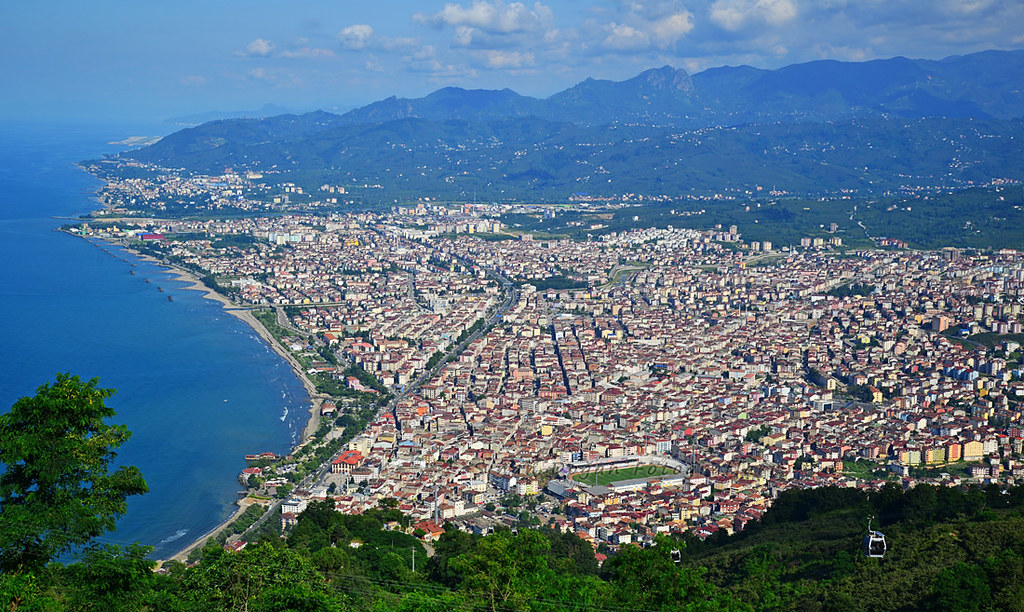
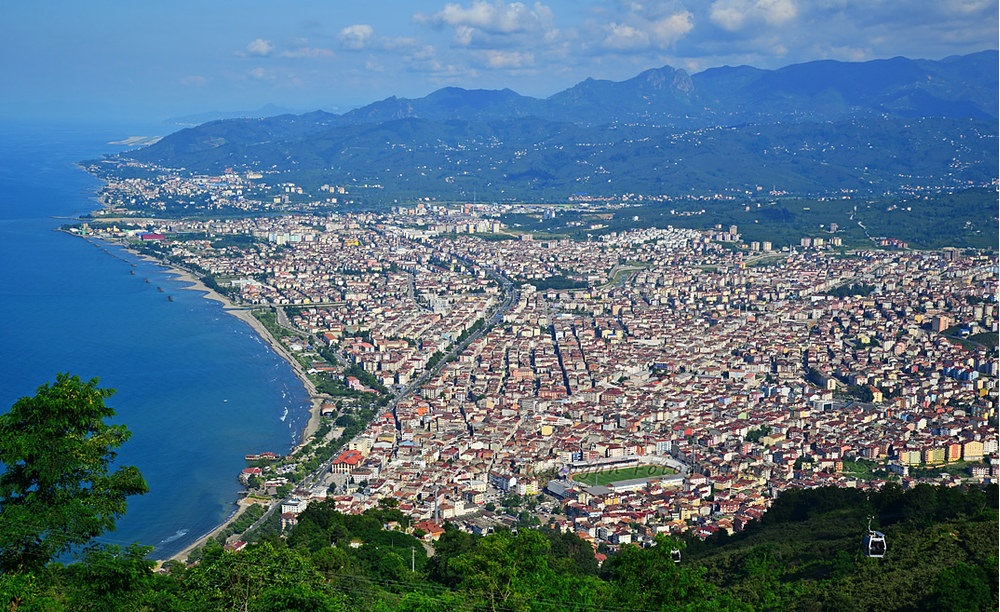
gezilecek yerler sayfasını düzenledim.

diff --git a/ödev/taşbaşıkilise.html b/ödev/taşbaşıkilise.html
@@ -5,75 +5,16 @@
     <meta name="viewport" content="width=device-width, initial-scale=1.0">
     <title>Document</title>
     <link rel="stylesheet" href="https://cdn.jsdelivr.net/npm/bootstrap@4.6.2/dist/css/bootstrap.min.css" integrity="sha384-xOolHFLEh07PJGoPkLv1IbcEPTNtaed2xpHsD9ESMhqIYd0nLMwNLD69Npy4HI+N" crossorigin="anonymous">
-<style>
-    body {
-        background-image: url("/ödev/IMAGES/background2.jpeg");
-        background-size:cover;
-        background-repeat: no-repeat;
-        
-          }
-</style>
+    <style>
+        body {
+      background-image: url("/ödev/IMAGES/bird-s-eye-view-shore-break.jpg");
+      background-size:cover;
+      background-repeat: no-repeat;
+        }
+      </style>
+
 </head>
 <body>
-    
-   <center> <div id="carouselExampleIndicators" class="carousel slide" data-ride="carousel" style="width: 1000px;height:1000px;">
-        <ol class="carousel-indicators">
-          <li data-target="#carouselExampleIndicators" data-slide-to="0" class="active"></li>
-          <li data-target="#carouselExampleIndicators" data-slide-to="1"></li>
-          <li data-target="#carouselExampleIndicators" data-slide-to="2"></li>
-          <li data-target="#carouselExampleIndicators" data-slide-to="3"></li>
-          <li data-target="#carouselExampleIndicators" data-slide-to="4"></li>
-          <li data-target="#carouselExampleIndicators" data-slide-to="5"></li>
-          <li data-target="#carouselExampleIndicators" data-slide-to="6"></li>
-          <li data-target="#carouselExampleIndicators" data-slide-to="7"></li>
-          <li data-target="#carouselExampleIndicators" data-slide-to="8"></li>
-        </ol>
-
-        
-        <div class="carousel-inner">
-          <div class="carousel-item active">
-            <a href="/ödev/boztepe.html">
-            <img class="d-block w-100" src="/ödev/IMAGES/botepe.jpg" alt="First slide">
-            </a>
-          </div>
-        
-        
-          <div class="carousel-item">
-            <a href="/ödev/taşbaşıkilise.html">
-            <img class="d-block w-100" src="/ödev/IMAGES/taşbaşıkilisesi.jpg" alt="Second slide">
-            </a>
-          </div>
-          
-          <div class="carousel-item">
-            <img class="d-block w-100" src="/ödev/IMAGES/yason.png" alt="Third slide">
-          </div>
-          <div class="carousel-item">
-            <img class="d-block w-100" src="/ödev/IMAGES/yoroz.jpg" alt="Fourth slide">
-          </div>
-          <div class="carousel-item">
-            <img class="d-block w-100" src="/ödev/IMAGES/perşembe yaylası.jpg" alt="Fifth slide">
-          </div>
-          <div class="carousel-item">
-            <img class="d-block w-100" src="/ödev/IMAGES/çambaşıkayakmerkezi.jpg" alt="Sixth slide">
-          </div>
-          <div class="carousel-item">
-            <img class="d-block w-100" src="/ödev/IMAGES/kurul kalesi.jpg" alt="Seventh slide">
-          </div>
-          <div class="carousel-item">
-            <img class="d-block w-100" src="/ödev/IMAGES/çiselişelalesi.png" alt="Eighth slide">
-          </div>
-          
-        </div>
-        <a class="carousel-control-prev" href="#carouselExampleIndicators" role="button" data-slide="prev">
-          <span class="carousel-control-prev-icon" aria-hidden="true"></span>
-          <span class="sr-only">Previous</span>
-        </a>
-        <a class="carousel-control-next" href="#carouselExampleIndicators" role="button" data-slide="next">
-          <span class="carousel-control-next-icon" aria-hidden="true"></span>
-          <span class="sr-only">Next</span>
-        </a>
-      </div> </center>
-
     <div class="container-fluid">
         <nav class="navbar fixed-top navbar-expand-lg navbar-dark bg-dark">
           <a class="navbar-brand" href="#">
@@ -127,20 +68,25 @@
               
             </div>
           </nav>
-          
 
-    
-          <script>
-            
-            function slideTo(slideIndex) {
-                $('#carouselExampleIndicators').carousel(slideIndex); 
-            }
-        </script>
-        <a href="/ödev/boztepe.html" onclick="slideTo(0)">Slayt 1</a>
-        <a href="#" onclick="slideTo(1)">Slayt 2</a>
-        <a href="#" onclick="slideTo(2)">Slayt 3</a>
-        <!-- Ve diğer slaytlar için aynı şekilde devam edebilirsiniz -->
-        
+          <br><br><br><br><br>
+          <center>
+            <div class="card" style=" background-color:  rgba(0, 0, 0, 0.7);">
+              <div class="card-body">
+                <h2 class="card-title" style="color:whitesmoke;">TAŞBAŞI KİLİSESİ</h2>
+              <div style="color:whitesmoke;"> Kilise doğu-batı istikametinde, dikdörtgen tarzında yapılmıştır. Doğuda büyük bir apsis, yanlarda iki küçük apsis bulunmaktadır. Kilisenin ana mekanı iki sıralı üç sütunla üç nefe ayrılmıştır. Kilisenin semardam çatısı, sütunlarla desteklenen kemerlerle taşınmaktadır. Tamamı kesme taştan yapılmış, (kubbe hariç) günümüze kadar ayakta kalabilen, bir bazilika şeklinde yapıdır. 1853 yılında yörede yaşayan Ortodoks Hıristiyanlar rumlar tarafından yapılmıştır. 10 Nisan 2000 tarihinden bu yana Kültür Merkezi (çok amaçlı salon) olarak kullanılmaktadır.Kilise doğu-batı istikametinde, dikdörtgen tarzında yapılmıştır. Doğuda büyük bir apsis, yanlarda iki küçük apsis bulunmaktadır. Kilisenin ana mekanı iki sıralı üç sütunla üç nefe ayrılmıştır. Kilisenin semardam çatısı, sütunlarla desteklenen kemerlerle taşınmaktadır. Tamamı kesme taştan yapılmış, (kubbe hariç) günümüze kadar ayakta kalabilen, bir bazilika şeklinde yapıdır. 1853 yılında yörede yaşayan Ortodoks Hıristiyanlar rumlar tarafından yapılmıştır. 10 Nisan 2000 tarihinden bu yana Kültür Merkezi (çok amaçlı salon) olarak kullanılmaktadır.</div>
+                <br><br><br>
+              
+              <img src="/ödev/IMAGES/TAŞBAŞI1.png">
+              <br><br><br>
+                <img src="/ödev/IMAGES/TAŞBAŞI2.png">
+                <br><br><br>
+                <img src="/ödev/IMAGES/TAŞBAŞI3.png">
+                <br><br><br>
+               
+              </div>
+            </div>
+          </center>
     <script src="https://cdn.jsdelivr.net/npm/jquery@3.5.1/dist/jquery.slim.min.js" integrity="sha384-DfXdz2htPH0lsSSs5nCTpuj/zy4C+OGpamoFVy38MVBnE+IbbVYUew+OrCXaRkfj" crossorigin="anonymous"></script>
     <script src="https://cdn.jsdelivr.net/npm/popper.js@1.16.1/dist/umd/popper.min.js" integrity="sha384-9/reFTGAW83EW2RDu2S0VKaIzap3H66lZH81PoYlFhbGU+6BZp6G7niu735Sk7lN" crossorigin="anonymous"></script>
     <script src="https://cdn.jsdelivr.net/npm/bootstrap@4.6.2/dist/js/bootstrap.min.js" integrity="sha384-+sLIOodYLS7CIrQpBjl+C7nPvqq+FbNUBDunl/OZv93DB7Ln/533i8e/mZXLi/P+" crossorigin="anonymous"></script>

diff --git a/ödev/boztepe.html b/ödev/boztepe.html
@@ -5,74 +5,17 @@
     <meta name="viewport" content="width=device-width, initial-scale=1.0">
     <title>Document</title>
     <link rel="stylesheet" href="https://cdn.jsdelivr.net/npm/bootstrap@4.6.2/dist/css/bootstrap.min.css" integrity="sha384-xOolHFLEh07PJGoPkLv1IbcEPTNtaed2xpHsD9ESMhqIYd0nLMwNLD69Npy4HI+N" crossorigin="anonymous">
-<style>
-    body {
-        background-image: url("/ödev/IMAGES/background2.jpeg");
-        background-size:cover;
-        background-repeat: no-repeat;
-        
-          }
-</style>
+    <style>
+        body {
+      background-image: url("/ödev/IMAGES/bird-s-eye-view-shore-break.jpg");
+      background-size:cover;
+      background-repeat: no-repeat;
+        }
+      </style>
+
+
 </head>
 <body>
-    
-   <center> <div id="carouselExampleIndicators" class="carousel slide" data-ride="carousel" style="width: 1000px;height:1000px;">
-        <ol class="carousel-indicators">
-          <li data-target="#carouselExampleIndicators" data-slide-to="0" class="active"></li>
-          <li data-target="#carouselExampleIndicators" data-slide-to="1"></li>
-          <li data-target="#carouselExampleIndicators" data-slide-to="2"></li>
-          <li data-target="#carouselExampleIndicators" data-slide-to="3"></li>
-          <li data-target="#carouselExampleIndicators" data-slide-to="4"></li>
-          <li data-target="#carouselExampleIndicators" data-slide-to="5"></li>
-          <li data-target="#carouselExampleIndicators" data-slide-to="6"></li>
-          <li data-target="#carouselExampleIndicators" data-slide-to="7"></li>
-          <li data-target="#carouselExampleIndicators" data-slide-to="8"></li>
-        </ol>
-
-        
-        <div class="carousel-inner">
-          <div class="carousel-item active">
-            <a href="/ödev/boztepe.html">
-            <img class="d-block w-100" src="/ödev/IMAGES/botepe.jpg" alt="First slide">
-            </a>
-          </div>
-        
-        
-          <div class="carousel-item">
-            <a href="/ödev/taşbaşıkilise.html">
-            <img class="d-block w-100" src="/ödev/IMAGES/taşbaşıkilisesi.jpg" alt="Second slide">
-            </a>
-          </div>
-          
-          <div class="carousel-item">
-            <img class="d-block w-100" src="/ödev/IMAGES/yason.png" alt="Third slide">
-          </div>
-          <div class="carousel-item">
-            <img class="d-block w-100" src="/ödev/IMAGES/yoroz.jpg" alt="Fourth slide">
-          </div>
-          <div class="carousel-item">
-            <img class="d-block w-100" src="/ödev/IMAGES/perşembe yaylası.jpg" alt="Fifth slide">
-          </div>
-          <div class="carousel-item">
-            <img class="d-block w-100" src="/ödev/IMAGES/çambaşıkayakmerkezi.jpg" alt="Sixth slide">
-          </div>
-          <div class="carousel-item">
-            <img class="d-block w-100" src="/ödev/IMAGES/kurul kalesi.jpg" alt="Seventh slide">
-          </div>
-          <div class="carousel-item">
-            <img class="d-block w-100" src="/ödev/IMAGES/çiselişelalesi.png" alt="Eighth slide">
-          </div>
-          
-        </div>
-        <a class="carousel-control-prev" href="#carouselExampleIndicators" role="button" data-slide="prev">
-          <span class="carousel-control-prev-icon" aria-hidden="true"></span>
-          <span class="sr-only">Previous</span>
-        </a>
-        <a class="carousel-control-next" href="#carouselExampleIndicators" role="button" data-slide="next">
-          <span class="carousel-control-next-icon" aria-hidden="true"></span>
-          <span class="sr-only">Next</span>
-        </a>
-      </div> </center>
 
     <div class="container-fluid">
         <nav class="navbar fixed-top navbar-expand-lg navbar-dark bg-dark">
@@ -127,20 +70,25 @@
               
             </div>
           </nav>
-          
 
-    
-          <script>
-            
-            function slideTo(slideIndex) {
-                $('#carouselExampleIndicators').carousel(slideIndex); 
-            }
-        </script>
-        <a href="/ödev/boztepe.html" onclick="slideTo(0)">Slayt 1</a>
-        <a href="#" onclick="slideTo(1)">Slayt 2</a>
-        <a href="#" onclick="slideTo(2)">Slayt 3</a>
-        <!-- Ve diğer slaytlar için aynı şekilde devam edebilirsiniz -->
-        
+          <br><br><br><br><br>
+          <center>
+            <div class="card" style=" background-color:  rgba(0, 0, 0, 0.7);">
+              <div class="card-body">
+                <h2 class="card-title" style="color:whitesmoke;">BOZTEPE</h2>
+              <div style="color:whitesmoke;">  Ordu şehri Boztepe’nin yamaçlarına serilmiştir. Denizden 450 metre yükseklikte olup, ilin tüm güzelliklerini, Karadeniz’in muhteşemliğini Boztepe’den seyretmek doyumsuzdur. İl merkezine 6 kilometre mesafede olup asfalt yolla ve dilerseniz teleferikle ulaşmak mümkündür. Yeme içme ve dinlenme tesisleri ile ormanlık piknik alanları mevcuttur.</div>
+                <br><br><br>
+              
+              <img src="/ödev/IMAGES/boztepe3.png">
+              <br><br><br>
+                <img src="/ödev/IMAGES/boztepe4.jpg">
+                <br><br><br>
+                <img src="/ödev/IMAGES/boztepe5.jpeg">
+                <br><br><br>
+               
+              </div>
+            </div>
+          </center>
     <script src="https://cdn.jsdelivr.net/npm/jquery@3.5.1/dist/jquery.slim.min.js" integrity="sha384-DfXdz2htPH0lsSSs5nCTpuj/zy4C+OGpamoFVy38MVBnE+IbbVYUew+OrCXaRkfj" crossorigin="anonymous"></script>
     <script src="https://cdn.jsdelivr.net/npm/popper.js@1.16.1/dist/umd/popper.min.js" integrity="sha384-9/reFTGAW83EW2RDu2S0VKaIzap3H66lZH81PoYlFhbGU+6BZp6G7niu735Sk7lN" crossorigin="anonymous"></script>
     <script src="https://cdn.jsdelivr.net/npm/bootstrap@4.6.2/dist/js/bootstrap.min.js" integrity="sha384-+sLIOodYLS7CIrQpBjl+C7nPvqq+FbNUBDunl/OZv93DB7Ln/533i8e/mZXLi/P+" crossorigin="anonymous"></script>
